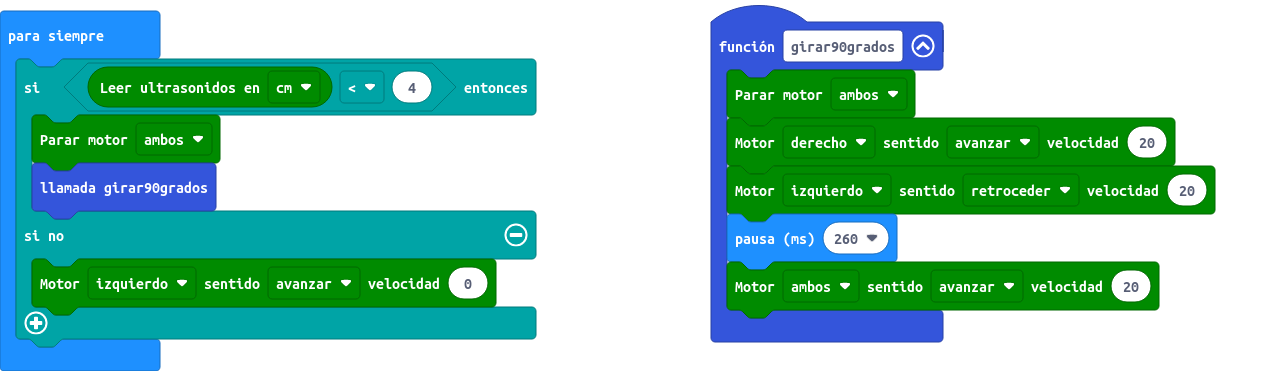
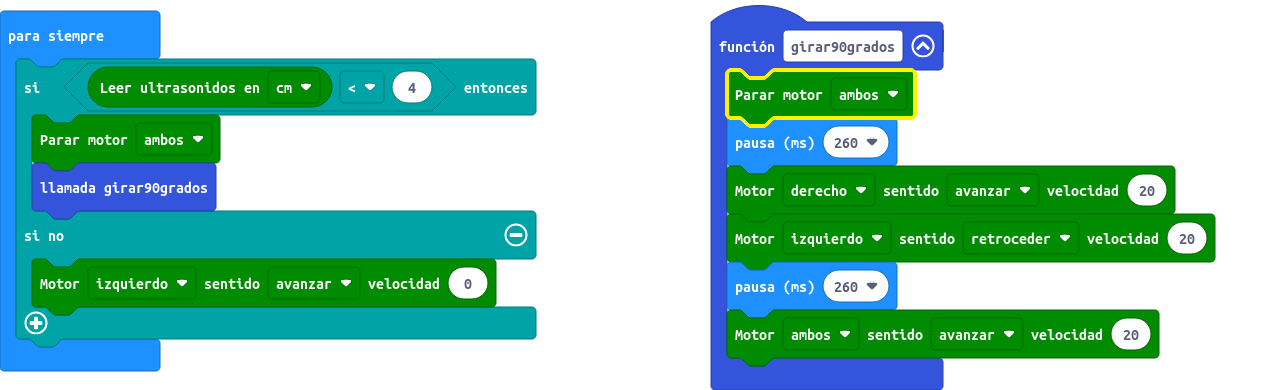
cambios

diff --git a/main.ts b/main.ts
@@ -1,5 +1,6 @@
 function girar90grados () {
     maqueen.motorStop(maqueen.Motors.All)
+    basic.pause(260)
     maqueen.motorRun(maqueen.Motors.M2, maqueen.Dir.CW, 20)
     maqueen.motorRun(maqueen.Motors.M1, maqueen.Dir.CCW, 20)
     basic.pause(260)
